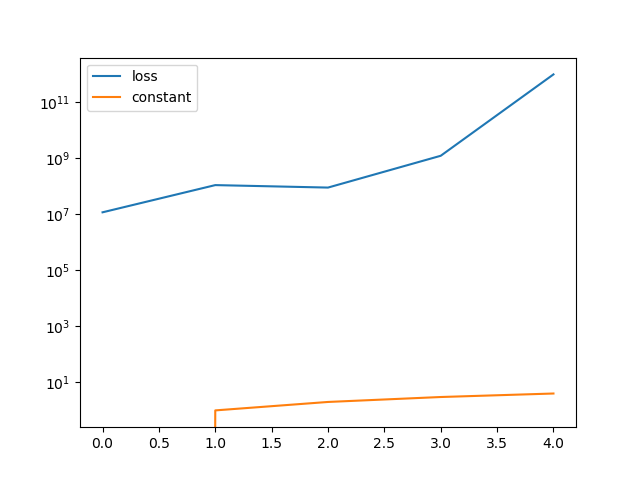
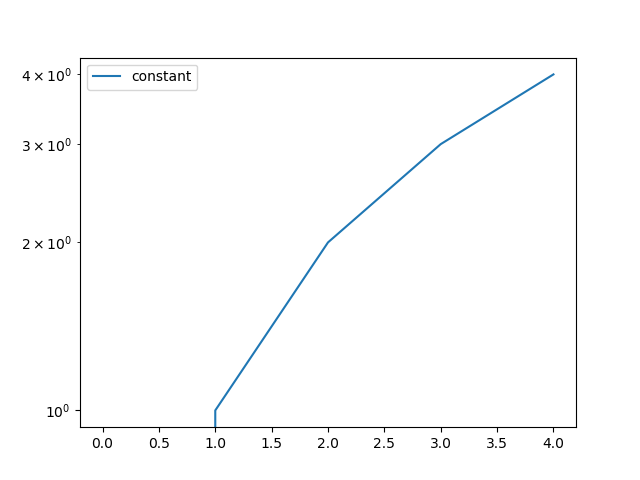
New graph

diff --git a/dynamics/torch_tensor.py b/dynamics/torch_tensor.py
@@ -94,6 +94,8 @@ for learning_rate in learning_rate_list:
 	# plt.show()
 	plt.savefig('./graph/learning_rate_%s_loss' % learning_rate)
 
+	plt.close()
+
 
 	plt.plot(x_axis, constant_list, label='constant')
 
